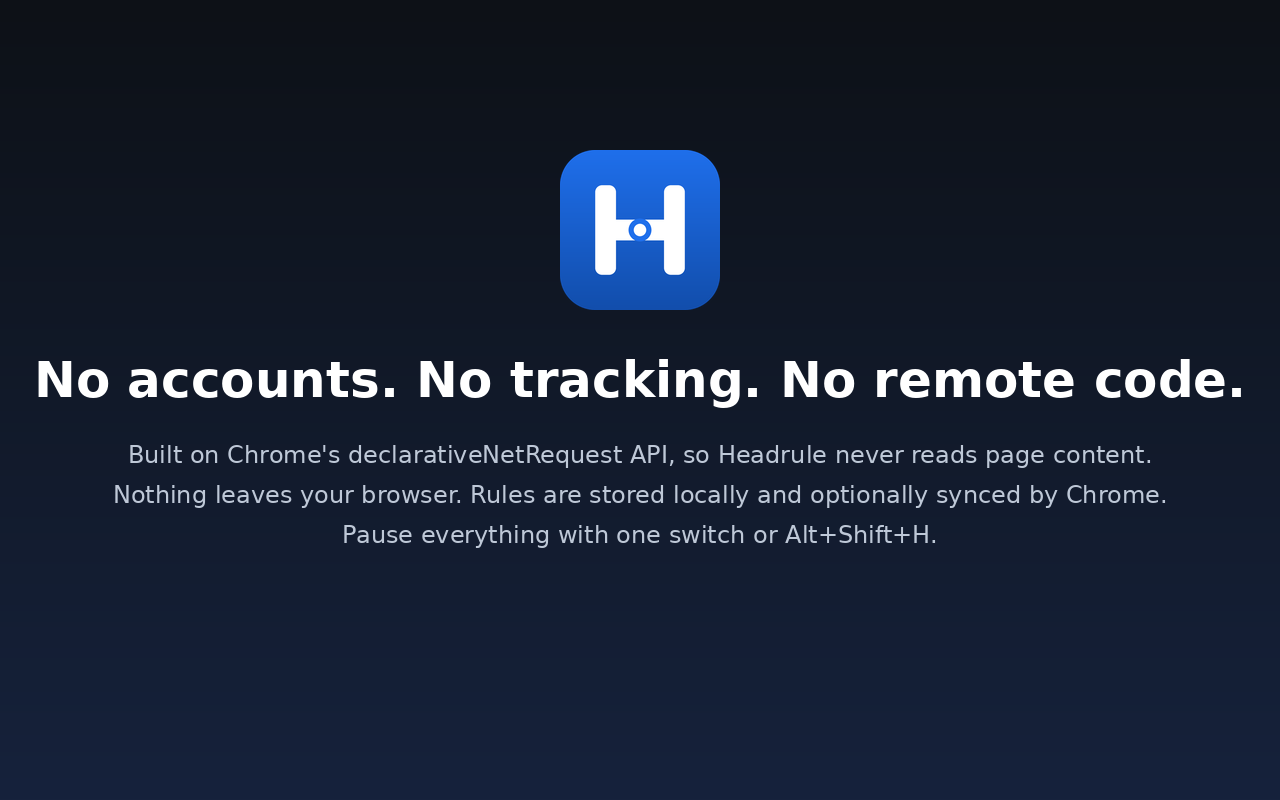
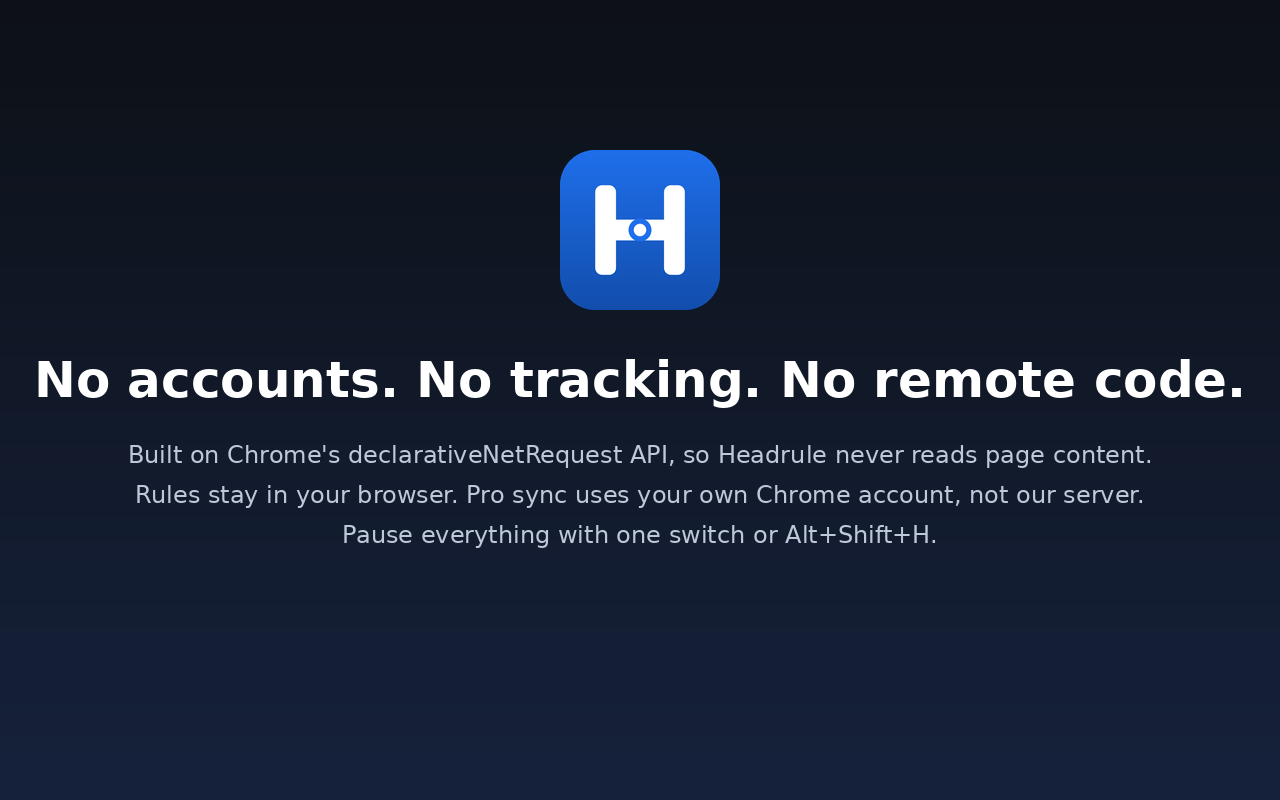
Store screenshots for 1.0.1: Pro = profiles, regex, sync; ModHeader import free
Screenshot 3 now shows the options page with Pro active and sync on (license
server mocked by scripts/capture_pro_options.mjs). Screenshots 1 and 2 drop
"no reload needed" and "Nothing leaves your browser".

Claude-Session: https://claude.ai/code/session_01Aoh9VnSDh1ui5H1CqZPicR

Changed region(s): [[0.0938, 0.5938, 0.9062, 0.6562]]

diff --git a/scripts/make_screenshots.py b/scripts/make_screenshots.py
@@ -70,7 +70,7 @@ def text_block(d, x, y, title, sub, title_size=44, sub_size=22, max_w=560):
 def shot_popup():
     img = background()
     d = ImageDraw.Draw(img)
-    text_block(d, 80, 120, "Modify any HTTP header.", "Set, append or remove request and response\nheaders. Scope each rule to a URL or domain.\nRules apply instantly, no reload needed.")
+    text_block(d, 80, 120, "Modify any HTTP header.", "Set, append or remove request and response\nheaders. Scope each rule to a URL or domain.\nRules apply from the next request.")
     raw = load_raw_logical("raw-popup.png", (0, 0, 680, 262))
     scale = 0.95
     raw = raw.resize((int(raw.width * scale), int(raw.height * scale)), Image.LANCZOS)
@@ -94,7 +94,7 @@ def shot_privacy():
     d.text(((W - tw) / 2, 350), title, font=ft, fill=(255, 255, 255))
     lines = [
         "Built on Chrome's declarativeNetRequest API, so Headrule never reads page content.",
-        "Nothing leaves your browser. Rules are stored locally and optionally synced by Chrome.",
+        "Rules stay in your browser. Pro sync uses your own Chrome account, not our server.",
         "Pause everything with one switch or Alt+Shift+H.",
     ]
     y = 440
@@ -108,8 +108,14 @@ def shot_privacy():
 def shot_options():
     img = background()
     d = ImageDraw.Draw(img)
-    text_block(d, 80, 120, "Pro: profiles, import,\nsync. One payment.", "Switch between staging, production and client\nprofiles. Import your ModHeader export in one\nclick. Regex URL filters. No subscription.", title_size=40)
-    raw = load_raw_logical("raw-options.png", (80, 0, 900 - 80, 600))
+    text_block(d, 80, 120, "Pro: unlimited profiles,\nregex filters, sync.", "Switch between staging, production and client\nprofiles, and keep them in sync through your\nown Chrome account. $9 once, no subscription.", title_size=40)
+    # Free ModHeader import, called out so nobody reads it as a Pro feature.
+    fp = ImageFont.truetype(FONT_B, 20)
+    label = "ModHeader import is free for everyone"
+    tw = d.textlength(label, font=fp)
+    d.rounded_rectangle((80, 380, 80 + tw + 36, 424), radius=22, fill=(31, 111, 235))
+    d.text((98, 391), label, font=fp, fill=(255, 255, 255))
+    raw = load_raw_logical("raw-options-pro.png", (80, 0, 900 - 80, 605))
     scale = 0.78
     raw = raw.resize((int(raw.width * scale), int(raw.height * scale)), Image.LANCZOS)
     card = shadowed(raw)

diff --git a/HANDOVER.md b/HANDOVER.md
@@ -131,7 +131,8 @@ npm run bump 1.0.1   버전 올리기
 3. **Lemon Squeezy 상품 설명에서 sync 빼기 (사람).** 1.0.0의 동기화는 고장이라 1.0.1이 공개될 때까지 팔지 않습니다
 4. **1.0.0 게시 버튼 (사람).** 조용히 게시만 합니다. 홍보는 하지 않습니다
 5. **1.0.1 제출 (사람).** 개발자 대시보드 → Headrule → 왼쪽 "패키지" → "새 패키지 업로드" → `dist\headrule-1.0.1.zip` → "스토어 등록정보" 탭에서 요약·설명을 `store/listing.md` 의 새 문구로 교체 → "개인정보 보호" 탭의 storage 사유도 새 문구로 교체 → "검토를 위해 제출". 이번에도 "검토 통과 후 자동 게시"는 끄고 제출합니다
-6. **1.0.1 승인 후:** 게시 버튼 → Claude에게 "1.0.1 게시했어"라고 말하면 `site-1.0.1` 브랜치를 main에 합치고(가져오기 무료, 필터 가져오기, Pro에 sync 복귀), 설치 버튼을 스토어 주소로 바꾸고, "in review" 문장을 지웁니다 → Lemon Squeezy 설명에 sync 다시 넣기 → 그다음 홍보(5-8)
+6. **1.0.1 승인 후 스크린샷 교체 (사람).** 대시보드 → 스토어 등록정보 → 스크린샷에서 기존 3장을 지우고 `store/screenshot-1~3-1280x800.png` 새 파일을 순서대로 올린 뒤 저장. 3번이 가장 중요합니다(가져오기 무료, Pro는 프로필·정규식·동기화). 1·2번은 "no reload", "Nothing leaves your browser" 같은 부정확한 문구를 고친 것. 다시 만들 때는 `node scripts/capture_pro_options.mjs && node test/smoke.mjs --shots && python3 scripts/make_screenshots.py`
+7. **1.0.1 승인 후:** 게시 버튼 → Claude에게 "1.0.1 게시했어"라고 말하면 `site-1.0.1` 브랜치를 main에 합치고(가져오기 무료, 필터 가져오기, Pro에 sync 복귀), 설치 버튼을 스토어 주소로 바꾸고, "in review" 문장을 지웁니다 → Lemon Squeezy 설명에 sync 다시 넣기 → 그다음 홍보(5-8)
 
 설치 버튼 교체 내용: 상단 `#installLink`, 가격표 Free 카드 `#installLinkFree` 를 스토어 주소로, 상단 버튼 글자는 "Add to Chrome, it's free"로 바꿉니다.
 
